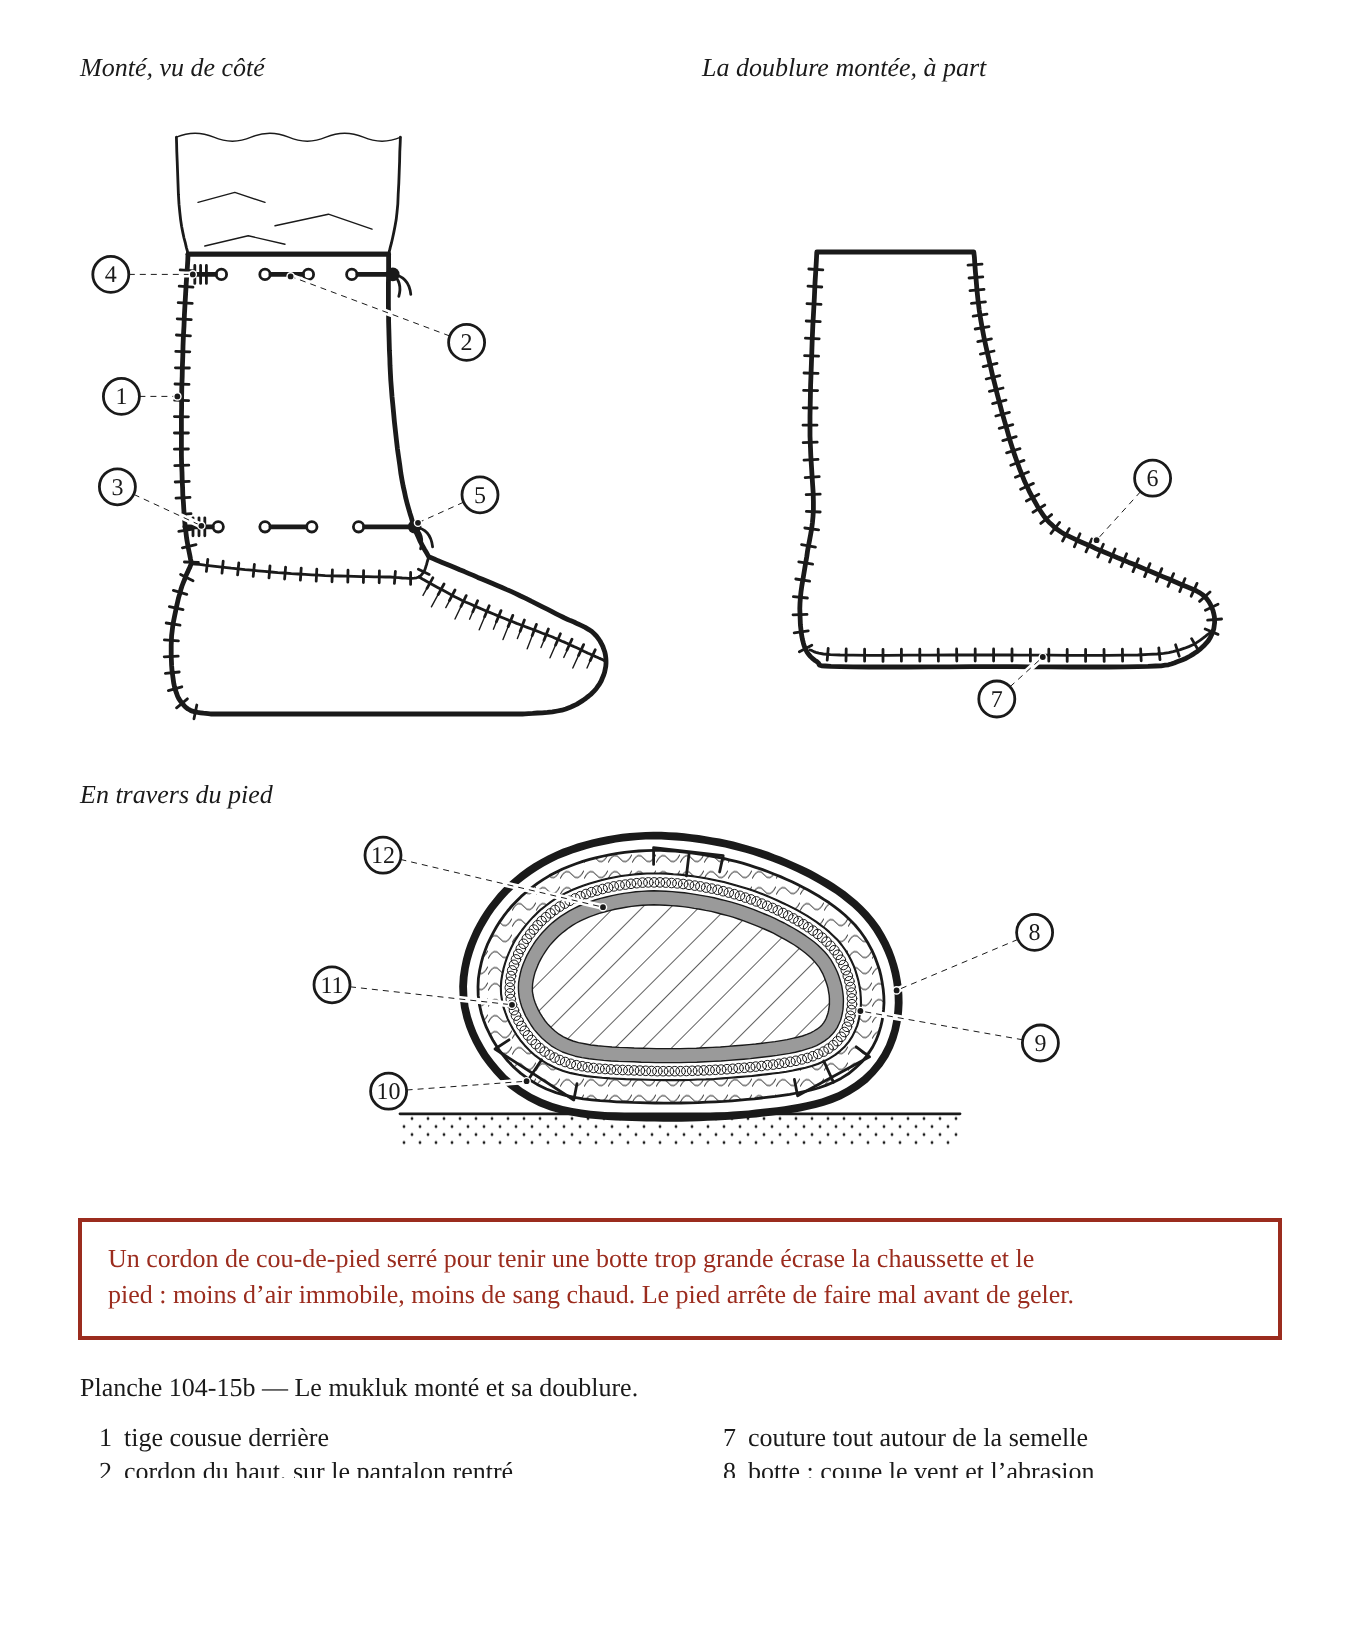
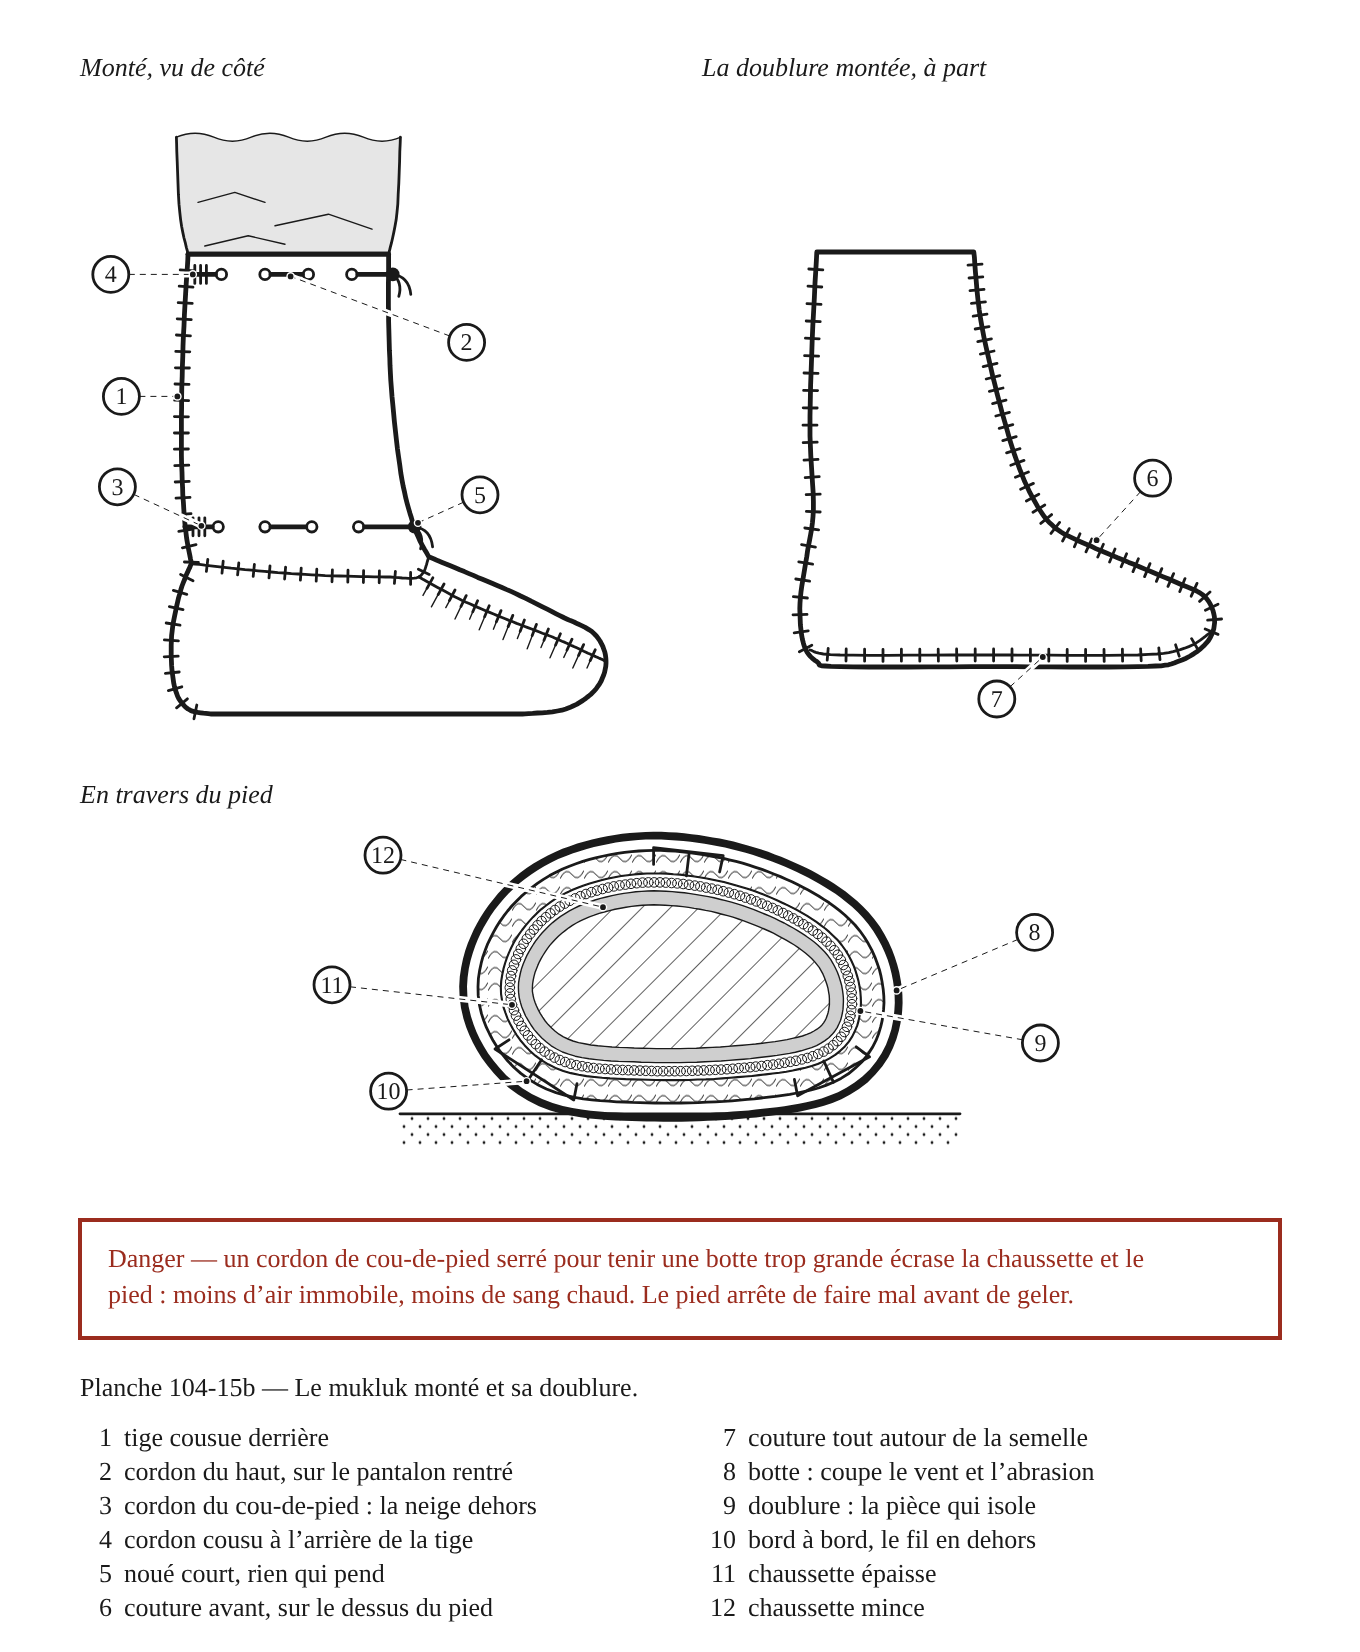
Charte et mains : travail en cours
Claude-Session: https://claude.ai/code/session_014xDY5FLxFXDJt3nYAYznSZ

diff --git a/images/planches-src/112-07.js b/images/planches-src/112-07.js
@@ -67,7 +67,7 @@ module.exports = (h) => {
             h.path(`M ${cx - 11} 63 Q ${cx - 2} 66 ${cx + 5} 76`, h.a.detail),
             h.path(`M ${cx - 6} 61 Q ${cx + 4} 63 ${cx + 10} 70`, h.a.detail),
             meche([[cx, 79], [cx, z.h - 6]], 8, 7),
-            h.fleche(`M ${cx - 13} ${z.h - 30} A 13 5 0 0 0 ${cx + 13} ${z.h - 30}`),
+            h.geste(`M ${cx - 13} ${z.h - 30} A 13 5 0 0 0 ${cx + 13} ${z.h - 30}`),   // la charte : tordre, le geste en rouge
           ].join('\n');
         },
         renvois: z => {
@@ -95,7 +95,7 @@ module.exports = (h) => {
             meche([[cx0 + 30, yb - 5], [cx1 - 60, yb - 5], [cx1 - 8, yr + 2], [tx, ty]], 7, 7),
             flamme(tx - 3, yr + 1, 48),
             h.cercle(tx - 2.5, ty, 3, h.a.plein),
-            h.fleche(`M ${cx1 - 60} ${yb - 22} L ${cx1 - 26} ${yb - 43}`),
+            h.geste(`M ${cx1 - 60} ${yb - 22} L ${cx1 - 26} ${yb - 43}`),   // la charte : tirer la mèche, le geste en rouge
           ].join('\n');
         },
         renvois: z => {
@@ -123,6 +123,15 @@ module.exports = (h) => {
             h.path(plaque, blancTrait('arete')),
             h.ellipse(cx, pb, R, Ry, h.a.hachure('metal', 'arete')),
             h.path(corps, blancTrait('contour')),
+            // la charte : le flanc droit à l'ombre (lumière en haut à gauche), la paroi du fond au gris loin
+            (() => {
+              const xs = cx + 0.45 * rx, ys = (x, y0) => y0 + ry * Math.sqrt(Math.max(0, 1 - ((x - cx) / rx) ** 2));
+              const haut = [], bas = [];
+              for (let i = 0; i <= 16; i++) { const x = xs + (cx + rx - xs) * i / 16; haut.push([x, ys(x, cy)]); bas.push([x, ys(x, cy + hc)]); }
+              return h.chemin([...haut, ...bas.reverse()], h.a.ombre, true);
+            })(),
+            h.path(`M ${cx - rx + 4} ${cy} A ${rx - 4} ${ry - 2} 0 0 1 ${cx + rx - 4} ${cy} L ${cx + rx - 5} ${cy + 5} A ${rx - 5} ${ry - 4} 0 0 0 ${cx - rx + 5} ${cy + 5} Z`, h.a.loin),
+            h.path(corps, h.a.contour),
             nervure(cy + 12), nervure(cy + 16),
             h.ellipse(cx, cy, rx, ry, h.a.contour),
             h.ellipse(cx, cy, rx - 4, ry - 2, h.a.detail),

diff --git a/images/planches-src/98-06.js b/images/planches-src/98-06.js
@@ -371,7 +371,9 @@ module.exports = (h) => {
     for (let i = 0; i < NP_C; i++) {
       const x = x0 + i * PAS_C * s, d = 14 * s;
       // la gerbe de derrière, un peu décalée, puis celle de devant : tous les pieds sur le sol
-      out.push(gerbe2D(s, [x + d, yG], [x + d, yG - Ht * s], 60 + i * 5, 6, '#E6E6E6'));   // la charte : gris loin
+      // (pas de gris loin ici : la gerbe de derrière ne dépasse que d'une bande mince, qui aurait
+      // l'air d'un trait doublé)
+      out.push(gerbe2D(s, [x + d, yG], [x + d, yG - Ht * s], 60 + i * 5, 6));
       out.push(gerbe2D(s, [x - d, yG], [x - d, yG - Ht * s], 62 + i * 5, 6));
     }
     return out.join('\n');

diff --git a/images/planches-src/104-15b.js b/images/planches-src/104-15b.js
@@ -252,6 +252,8 @@ module.exports = (h) => ({
       },
     },
   },
-  danger: 'Un cordon de cou-de-pied serré pour tenir une botte trop grande écrase la chaussette et le '
+  // « Danger — » en tête : sans lui, l'encadré coupait sa première ligne trop court et le
+  // vérificateur refusait la boîte, vide à droite
+  danger: 'Danger — un cordon de cou-de-pied serré pour tenir une botte trop grande écrase la chaussette et le '
     + 'pied : moins d’air immobile, moins de sang chaud. Le pied arrête de faire mal avant de geler.',
 });
